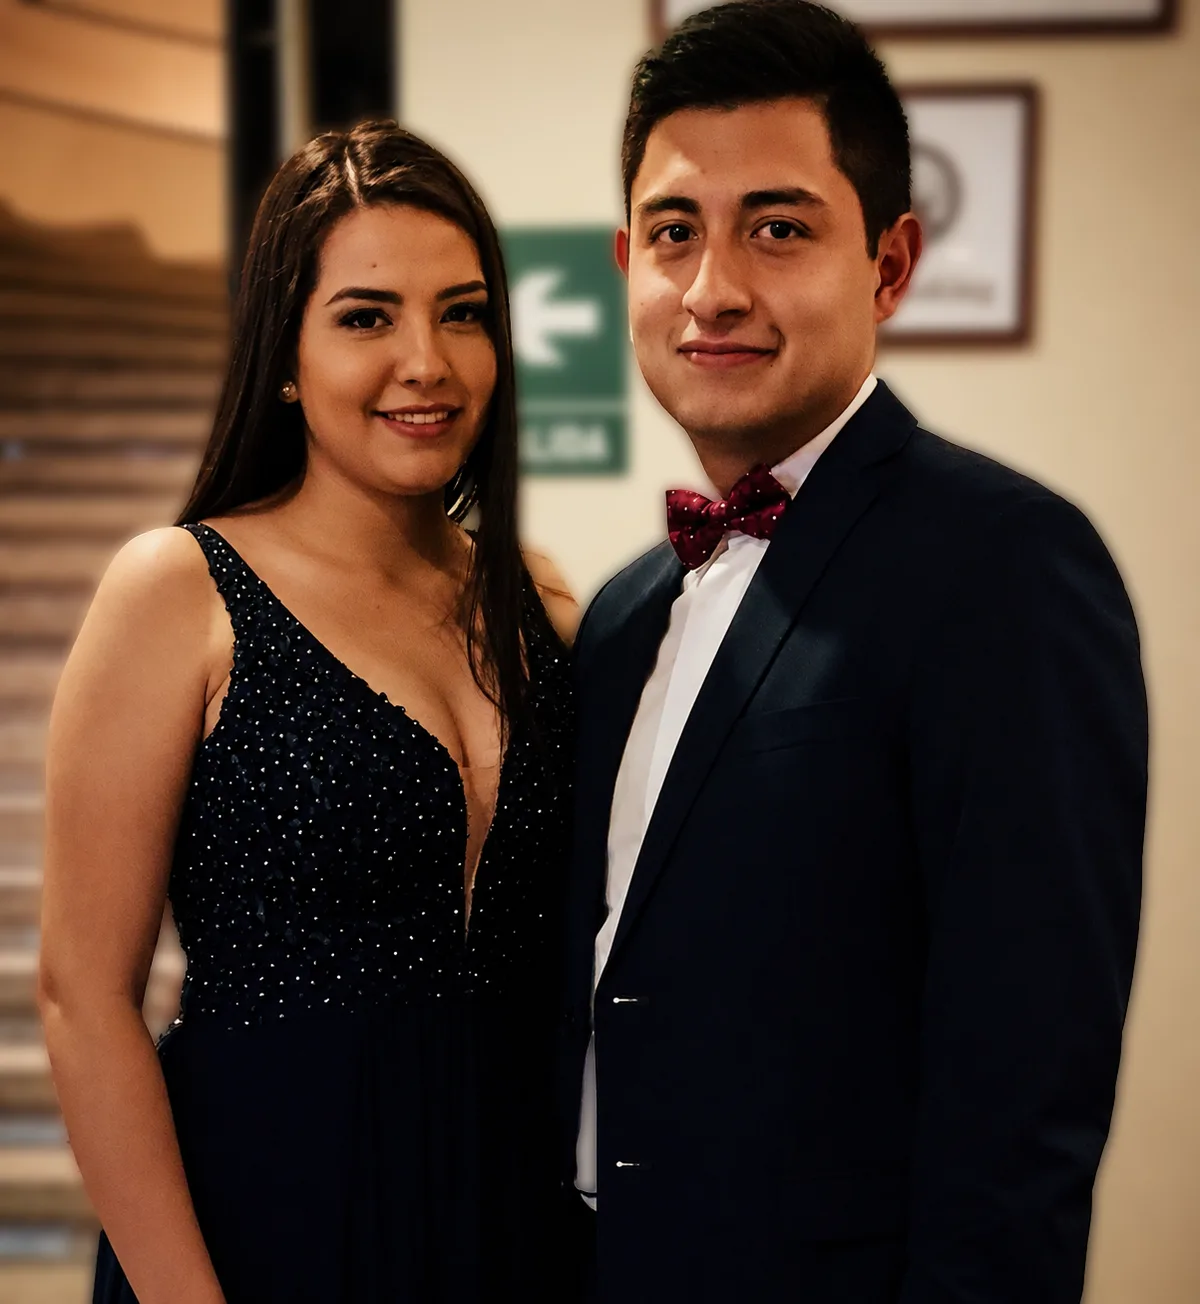
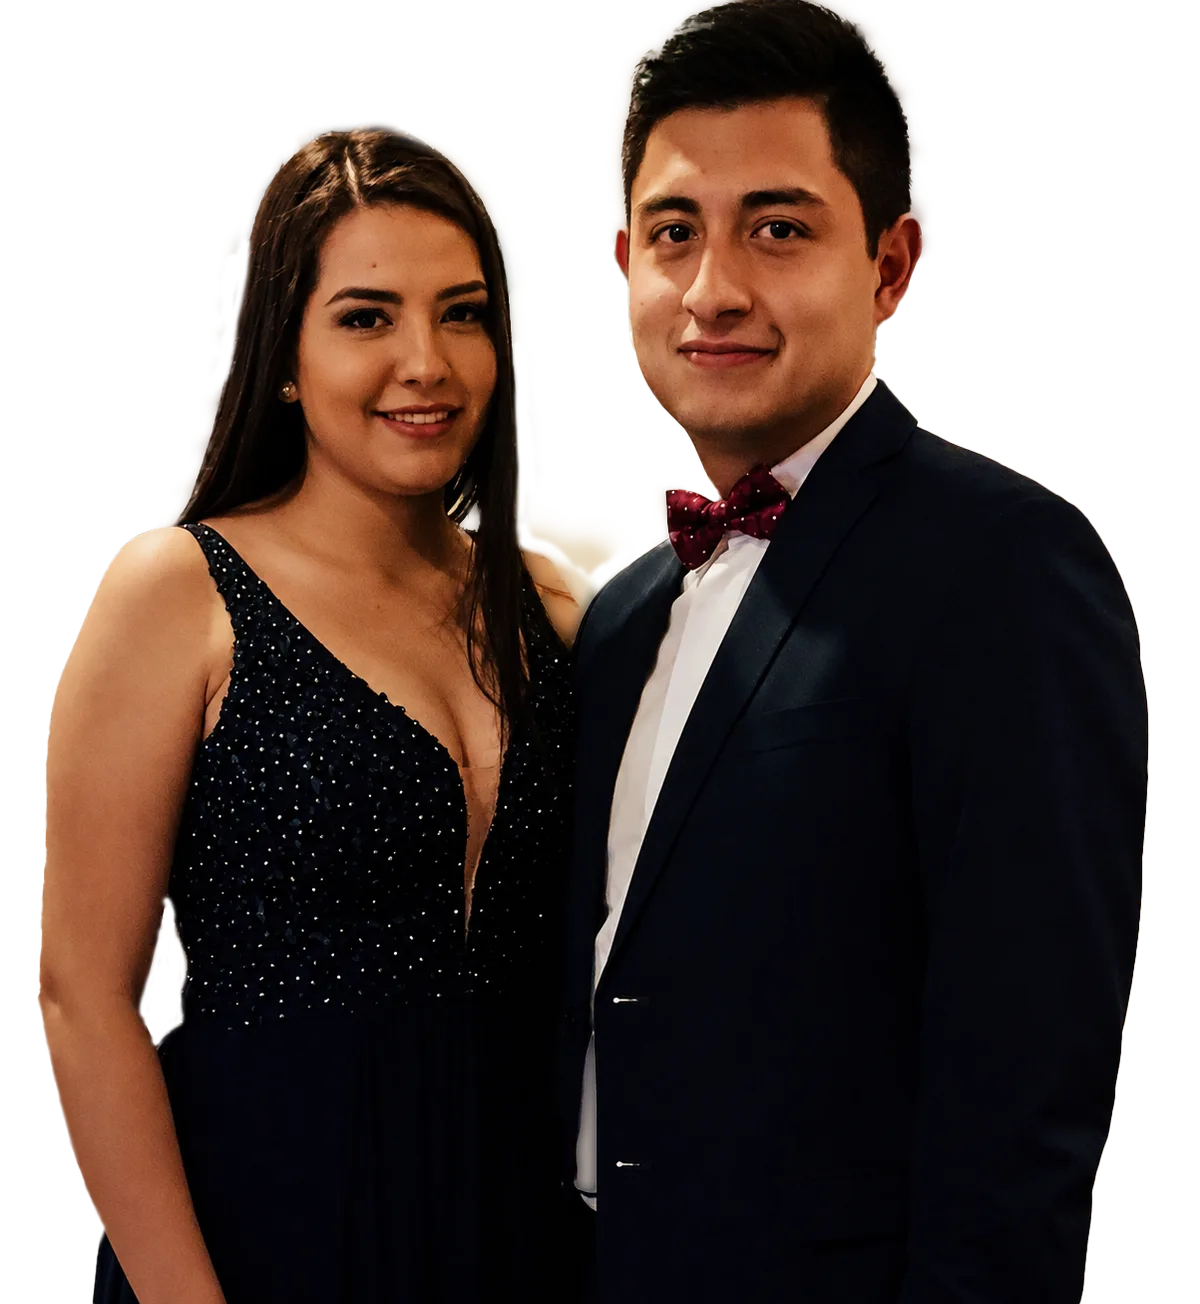
feat: major UX overhaul
- Página 1: fondo hero_nuevo.jpeg optimizado a WebP (400/800/1200w) + preload
- Scroll-down CTA animado en hero ('Desliza para descubrir')
- Scroll normal continuo: quitado scroll-snap-type/html y scroll-snap-align/.slide
- Eliminada navegación por diapositivas (nav prev/next HTML, CSS .slide-nav, JS sectionObserver + goTo)
- Eliminado botón música: autoplay en bucle muted + unmute al primer toque/clic en cualquier parte (sin botón)
- Imágenes generadas: hero_nuevo-400w/800w/1200w.webp, video-poster.webp, ceremonia.mp4 (22.9 MB)

diff --git a/invitacion.html b/invitacion.html
@@ -10,7 +10,7 @@
   <link href="https://fonts.googleapis.com/css2?family=Alex+Brush&family=EB+Garamond:ital,wght@0,400;0,500;1,400&display=swap" rel="stylesheet">
 
   <link rel="icon" type="image/png" href="/src/assets/images/favicon.png">
-  <link rel="preload" as="image" href="/src/assets/images/principal_hero-1200w.webp" type="image/webp">
+  <link rel="preload" as="image" href="/src/assets/images/hero_nuevo-1200w.webp" type="image/webp">
   <link rel="preload" as="image" href="/src/assets/images/video-poster.webp" type="image/webp">
   <link rel="preload" as="video" href="/src/assets/video/ceremonia.mp4" type="video/mp4">
   <style>
@@ -62,42 +62,6 @@
       outline-offset: 3px;
     }
 
-    /* Botón música flotante esquina superior derecha */
-    .music-toggle {
-      position: fixed;
-      top: 24px;
-      right: 24px;
-      z-index: 100;
-      width: 52px;
-      height: 52px;
-      border-radius: 50%;
-      background: rgba(253, 253, 252, 0.85);
-      backdrop-filter: blur(12px) saturate(130%);
-      -webkit-backdrop-filter: blur(12px) saturate(130%);
-      border: 1px solid rgba(176, 141, 87, 0.3);
-      display: flex;
-      align-items: center;
-      justify-content: center;
-      cursor: pointer;
-      box-shadow: 0 4px 20px rgba(43, 43, 43, 0.1);
-      transition: background-color 0.2s, border-color 0.2s;
-    }
-    .music-toggle:hover {
-      background: rgba(253, 253, 252, 0.98);
-      border-color: var(--gold);
-    }
-    .music-toggle:focus-visible {
-      outline: 2px solid var(--gold);
-      outline-offset: 3px;
-    }
-    .music-toggle svg {
-      width: 24px;
-      height: 24px;
-      color: var(--ink);
-      transition: color 0.2s;
-    }
-    .music-toggle.playing svg { color: var(--gold); }
-
     /* Texto acompañantes en portada */
     .hero-acompanantes {
       font-family: var(--serif);
@@ -122,13 +86,6 @@
         padding: 12px 20px;
         font-size: 0.7rem;
       }
-      .music-toggle {
-        top: 16px;
-        right: 16px;
-        width: 44px;
-        height: 44px;
-      }
-      .music-toggle svg { width: 20px; height: 20px; }
       .hero-acompanantes { font-size: 0.95rem; }
     }
 
@@ -136,7 +93,6 @@
 
     html {
       scroll-behavior: smooth;
-      scroll-snap-type: y proximity;
     }
 
     body {
@@ -154,7 +110,6 @@
     .slide {
       min-height: 100vh;
       min-height: 100svh;
-      scroll-snap-align: start;
       display: flex;
       flex-direction: column;
       align-items: center;
@@ -254,6 +209,41 @@
       font-size: clamp(3rem, 13vw, 5rem);
       line-height: 1.15;
       color: #fff;
+    }
+    .scroll-down {
+      position: absolute;
+      bottom: 40px;
+      left: 50%;
+      transform: translateX(-50%);
+      display: flex;
+      flex-direction: column;
+      align-items: center;
+      gap: 8px;
+      color: rgba(255,255,255,0.9);
+      font-size: 0.65rem;
+      letter-spacing: 0.2em;
+      text-transform: uppercase;
+      font-family: var(--serif);
+      animation: scrollFade 2.5s ease-in-out infinite;
+      pointer-events: none;
+      z-index: 2;
+    }
+    .scroll-down .scroll-chevron {
+      width: 28px;
+      height: 28px;
+      animation: scrollBounce 1.5s ease-in-out infinite;
+    }
+    @keyframes scrollFade {
+      0%, 100% { opacity: 0.5; }
+      50% { opacity: 1; }
+    }
+    @keyframes scrollBounce {
+      0%, 100% { transform: translateY(0); }
+      50% { transform: translateY(6px); }
+    }
+    @media (max-width: 480px) {
+      .scroll-down { bottom: 28px; font-size: 0.6rem; }
+      .scroll-down .scroll-chevron { width: 24px; height: 24px; }
     }
     .count-block {
       width: 100%;
@@ -618,46 +608,6 @@
       line-height: 1.2;
     }
 
-    /* ---------- Navegación por diapositivas (liquid glass) ---------- */
-    .slide-nav {
-      position: fixed;
-      right: 16px;
-      bottom: 88px;
-      display: flex;
-      flex-direction: column;
-      gap: 10px;
-      z-index: 45;
-    }
-    .slide-nav button {
-      width: 44px; height: 44px;
-      border-radius: 50%;
-      border: 1px solid rgba(176, 141, 87, 0.18);
-      background: rgba(253, 253, 252, 0.35);
-      backdrop-filter: blur(14px) saturate(140%);
-      -webkit-backdrop-filter: blur(14px) saturate(140%);
-      color: rgba(43, 43, 43, 0.28);
-      display: flex;
-      align-items: center;
-      justify-content: center;
-      cursor: pointer;
-      box-shadow: inset 0 1px 0 rgba(255,255,255,0.45), 0 4px 16px rgba(43, 43, 43, 0.06);
-      transition: background-color 0.25s, color 0.25s, border-color 0.25s, opacity 0.25s;
-    }
-    .slide-nav button:hover:not(:disabled) {
-      background: rgba(253, 253, 252, 0.78);
-      color: rgba(43, 43, 43, 0.85);
-      border-color: rgba(176, 141, 87, 0.45);
-    }
-    .slide-nav button:focus-visible {
-      outline: 2px solid rgba(176, 141, 87, 0.5);
-      outline-offset: 3px;
-    }
-    .slide-nav button:disabled {
-      opacity: 0.25;
-      cursor: default;
-    }
-    .slide-nav svg { width: 16px; height: 16px; }
-
     /* ---------- Footer (liquid glass) ---------- */
     .site-footer-fixed {
       position: fixed; bottom: 0; left: 0; right: 0;
@@ -717,7 +667,6 @@
       .tl-item:nth-child(even) .tl-icon { left: -19px; }
       .tl-item:last-child::after,
       .tl-item:nth-child(even):last-child::after { height: 19px; }
-      .slide-nav { right: 12px; }
     }
 
     /* ---------- Pantallas de carga / error ---------- */
@@ -795,11 +744,6 @@
 </head>
 <body>
 
-  <!-- Botón música flotante - Tan Enamorados (Montaner) -->
-  <button type="button" class="music-toggle" id="music-toggle" aria-label="Activar/desactivar música" aria-pressed="false" title="Tan Enamorados - Ricardo Montaner">
-    <svg class="music-icon-play" viewBox="0 0 24 24" fill="none" stroke="currentColor" stroke-width="1.5" stroke-linecap="round" stroke-linejoin="round" style="display:block;"><polygon points="5 3 19 12 5 21 5 3"/></svg>
-    <svg class="music-icon-pause" viewBox="0 0 24 24" fill="none" stroke="currentColor" stroke-width="1.5" stroke-linecap="round" stroke-linejoin="round" style="display:none;"><rect x="6" y="4" width="4" height="16"/><rect x="14" y="4" width="4" height="16"/></svg>
-  </button>
   <audio id="bg-music" loop preload="auto" autoplay muted><source src="/src/assets/audio/tan-enamorados-montaner.mp3" type="audio/mpeg"></audio>
 
   <!-- Pantalla de carga -->
@@ -818,8 +762,8 @@
   <section class="slide intro">
     <div class="hero-full photo-rv" style="--d:0s">
       <picture>
-          <source srcset="/src/assets/images/principal_hero-400w.webp 400w, /src/assets/images/principal_hero-800w.webp 800w, /src/assets/images/principal_hero-1200w.webp 1200w" type="image/webp">
-          <img src="/src/assets/images/principal_hero-1200w.webp" alt="Gloria y Juan José">
+          <source srcset="/src/assets/images/hero_nuevo-400w.webp 400w, /src/assets/images/hero_nuevo-800w.webp 800w, /src/assets/images/hero_nuevo-1200w.webp 1200w" type="image/webp">
+          <img src="/src/assets/images/hero_nuevo-1200w.webp" alt="Gloria y Juan José">
         </picture>
       <div class="hero-overlay"></div>
       <div class="hero-content">
@@ -827,6 +771,10 @@
         <p class="hero-invite rv" style="--d:.5s">TE INVITAN</p>
         <h1 class="hero-name-script rv" style="--d:.65s" id="inv-hero-name">Nombre del Invitado</h1>
         <p class="hero-acompanantes rv" style="--d:.75s; font-size:1.25rem;" id="inv-acompanantes"></p>
+        <div class="scroll-down rv" style="--d:1s" id="scroll-down">
+          <span class="scroll-text">Desliza para descubrir</span>
+          <svg class="scroll-chevron" viewBox="0 0 24 24" fill="none" stroke="currentColor" stroke-width="2" stroke-linecap="round" stroke-linejoin="round" aria-hidden="true"><polyline points="6 9 12 15 18 9"/></svg>
+        </div>
       </div>
     </div>
     <div class="count-block">
@@ -1051,16 +999,6 @@
     </a>
   </footer>
 
-  <!-- Navegación por diapositivas -->
-  <nav class="slide-nav" aria-label="Navegación entre secciones">
-    <button type="button" id="nav-prev" aria-label="Sección anterior" disabled>
-      <svg viewBox="0 0 24 24" fill="none" stroke="currentColor" stroke-width="1.5" stroke-linecap="round" stroke-linejoin="round"><path d="M6 15l6-6 6 6"/></svg>
-    </button>
-    <button type="button" id="nav-next" aria-label="Sección siguiente">
-      <svg viewBox="0 0 24 24" fill="none" stroke="currentColor" stroke-width="1.5" stroke-linecap="round" stroke-linejoin="round"><path d="M6 9l6 6 6-6"/></svg>
-    </button>
-  </nav>
-
   <!-- Modal formulario RSVP -->
   <div class="modal" id="rsvp-modal" hidden>
     <div class="modal-card" role="dialog" aria-modal="true" aria-labelledby="modal-title">
@@ -1100,7 +1038,6 @@
   <script>
     // Solo interacciones visuales (maqueta de diseño, sin backend)
     (function() {
-      var reducedMotion = window.matchMedia("(prefers-reduced-motion: reduce)").matches;
 
       // Reveal escalonado: se activa cuando la seccion ya entra en vista
       var revealSlides = Array.prototype.slice.call(document.querySelectorAll(".slide"));
@@ -1142,35 +1079,23 @@
       tick();
       setInterval(tick, 1000);
 
-      // Navegación por diapositivas
-      var slides = Array.prototype.slice.call(document.querySelectorAll(".slide"));
-      var btnPrev = document.getElementById("nav-prev");
-      var btnNext = document.getElementById("nav-next");
-      var current = 0;
-
-      function goTo(index) {
-        var t = slides[Math.max(0, Math.min(slides.length - 1, index))];
-        if (!t) return;
-        t.scrollIntoView({ behavior: reducedMotion ? "auto" : "smooth" });
-      }
-
-      function updateButtons() {
-        btnPrev.disabled = current <= 0;
-        btnNext.disabled = current >= slides.length - 1;
-      }
-
-      var sectionObserver = new IntersectionObserver(function(entries) {
-        entries.forEach(function(e) {
-          if (e.isIntersecting) {
-            current = slides.indexOf(e.target);
-            updateButtons();
+      // Scroll-down CTA: al hacer clic, desliza a la siguiente sección
+      var scrollDown = document.getElementById('scroll-down');
+      if (scrollDown) {
+        scrollDown.style.pointerEvents = 'auto';
+        scrollDown.addEventListener('click', function() {
+          var intro = document.querySelector('.slide.intro');
+          if (intro) {
+            var nextSlide = intro.nextElementSibling;
+            while (nextSlide && !nextSlide.classList.contains('slide')) {
+              nextSlide = nextSlide.nextElementSibling;
+            }
+            if (nextSlide) {
+              nextSlide.scrollIntoView({ behavior: 'smooth' });
+            }
           }
         });
-      }, { threshold: 0.55 });
-      slides.forEach(function(s) { sectionObserver.observe(s); });
-
-      btnPrev.addEventListener("click", function() { goTo(current - 1); });
-      btnNext.addEventListener("click", function() { goTo(current + 1); });
+      }
 
       // Video autoplay al llegar a sección 9
       (function(){
@@ -1243,42 +1168,29 @@
         document.getElementById("rsvp-adicionales-group").style.display = asistira ? "" : "none";
       }
 
-      // Musica - autoplay robusto infalible
+      // Musica - autoplay robusto: muted + unmute en primera interacción (sin botón)
       (function(){
-        var btn=document.getElementById("music-toggle");
         var audio=document.getElementById("bg-music");
-        if(!btn||!audio) return;
-        var playIcon=btn.querySelector(".music-icon-play");
-        var pauseIcon=btn.querySelector(".music-icon-pause");
+        if(!audio) return;
         var isPlaying=false;
         var audioCtx=null;
-        function updateIcons(){
-          if(playIcon) playIcon.style.display=isPlaying?"none":"block";
-          if(pauseIcon) pauseIcon.style.display=isPlaying?"block":"none";
-          btn.setAttribute("aria-pressed", isPlaying?"true":"false");
-          if(isPlaying) btn.classList.add("playing"); else btn.classList.remove("playing");
-        }
         function unlockAudio(){
           if(audioCtx && audioCtx.state==="suspended") audioCtx.resume();
           if(audio.muted && !isPlaying){
             audio.muted=false;
             var p=audio.play();
-            if(p && p.then) p.then(function(){ isPlaying=true; updateIcons(); }).catch(function(){ isPlaying=false; updateIcons(); });
+            if(p && p.then) p.then(function(){ isPlaying=true; }).catch(function(){ isPlaying=false; });
           }
         }
         function tryPlay(){
           var p=audio.play();
-          if(p && p.then) p.then(function(){ isPlaying=true; updateIcons(); }).catch(function(){ isPlaying=false; updateIcons(); });
+          if(p && p.then) p.then(function(){ isPlaying=true; }).catch(function(){ isPlaying=false; });
         }
-        btn.addEventListener("click", function(){
-          if(isPlaying){ audio.pause(); isPlaying=false; updateIcons(); }
-          else { tryPlay(); }
-        });
         // Autoplay: muted + unmute en primera interacción (estándar moderno)
         audio.volume=0.85;
         audio.muted=true;
         tryPlay();
-        // Desbloquear AudioContext en primera interacción
+        // Desbloquear AudioContext en primera interacción (click/touch/tecla)
         var unlockOnce=function(){
           unlockAudio();
           document.removeEventListener("click", unlockOnce);
@@ -1295,7 +1207,6 @@
         // Reintento tras carga completa
         window.addEventListener("load", tryPlay);
         setTimeout(tryPlay, 1000);
-        updateIcons();
       })();
 
       // Página 3 ahora es foto única full-frame, sin carrusel

diff --git a/scripts/optimize-assets.js b/scripts/optimize-assets.js
@@ -29,7 +29,7 @@ async function optimizeImages() {
   }
   const files = fs.readdirSync(INPUT_DIR).filter(f => /\.(jpg|jpeg|png)$/i.test(f) && !f.includes("-") );
   // Filtrar solo las usadas en la invitacion para no procesar todo si hay muchas
-  const allowList = ["01.png","02.png","03.png","04.jpg","principal_hero.png","IMG_4963.jpg","IMG_5283.PNG","IMG_4072.jpg","IMG_4074.jpg","IMG_1505.jpg","IMG_3029.jpg"];
+  const allowList = ["01.png","02.png","03.png","04.jpg","principal_hero.png","IMG_4963.jpg","IMG_5283.PNG","IMG_4072.jpg","IMG_4074.jpg","IMG_1505.jpg","IMG_3029.jpg","hero_nuevo.jpeg"];
   const toProcess = files.filter(f => allowList.includes(f));
   console.log(`Optimizando ${toProcess.length} imágenes: ${toProcess.join(", ")}`);
   for (const file of toProcess) {
